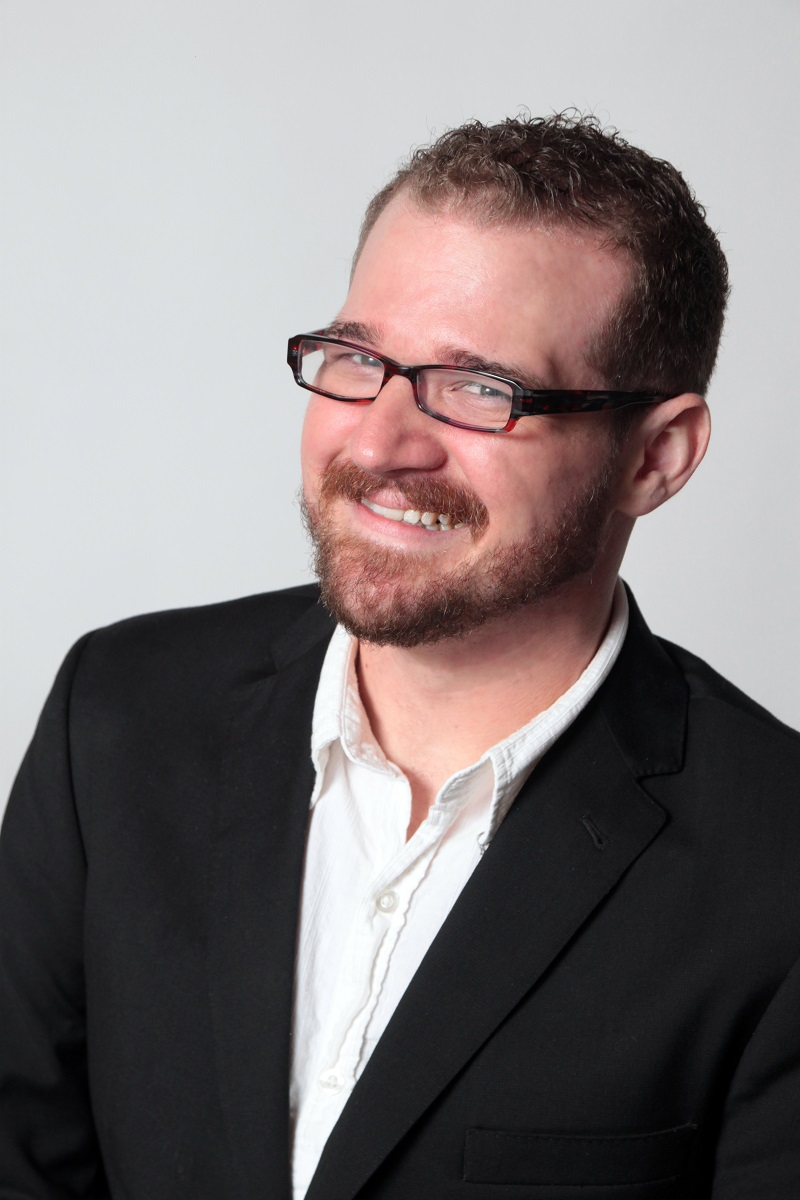
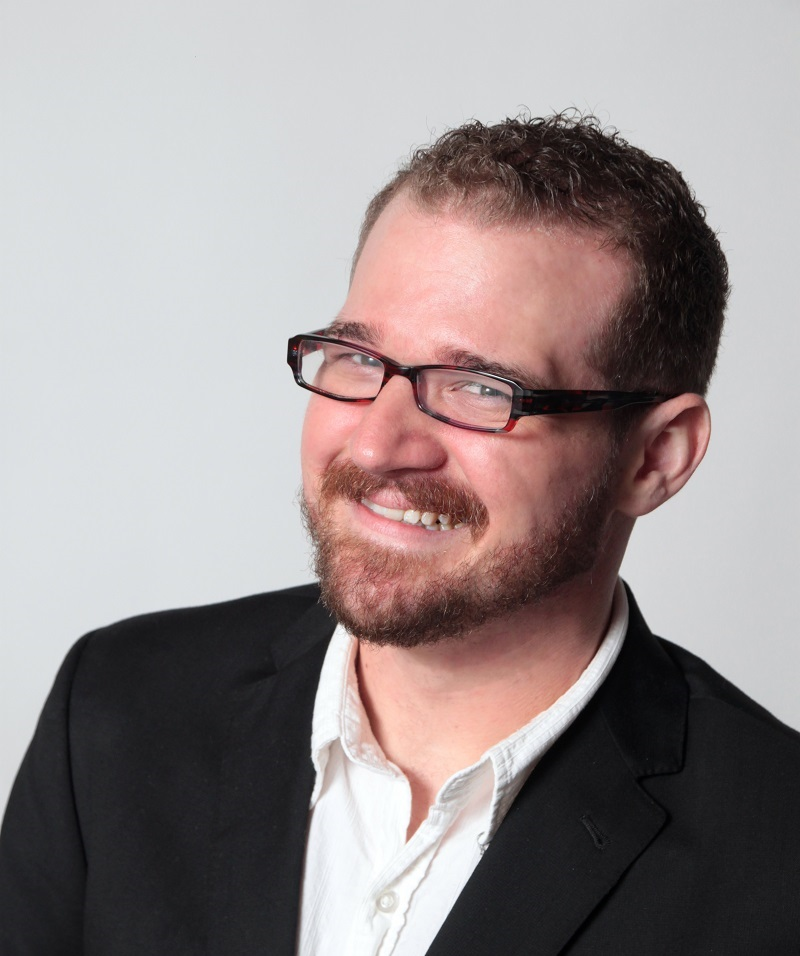
Added wide images for meta data

diff --git a/cosplay/index.html b/cosplay/index.html
@@ -3,7 +3,7 @@ layout: page
 title: Cosplay Contest Rules and Entry Forms
 description: If you're passionate about Cosplay, you'll want to enter our Cosplay competition, show off your brilliant hard work, and win prizes! Rules and entry forms can be found here.
 permalink: /cosplay/
-image: /cosplay/cosplayteam1.png
+image: /meta/cosplayteam1-3.png
 ---
 
 <table style="width:100%">

diff --git a/pages/guests.md b/pages/guests.md
@@ -3,7 +3,7 @@ layout: page
 title: Guest Biographies
 permalink: /guests/
 description: Learn all about the guests you'll meet at LouisiANIME 2015. Enjoy their unique panels and personalities as you get to hang out with them over the weekend.
-image: /guests/grelle_josh.jpg
+image: /meta/grelle_joshwide.png
 image1: /guests/Headshot_Clifford.jpg
 image2: /guests/Headshot_Fee.jpg
 ---
